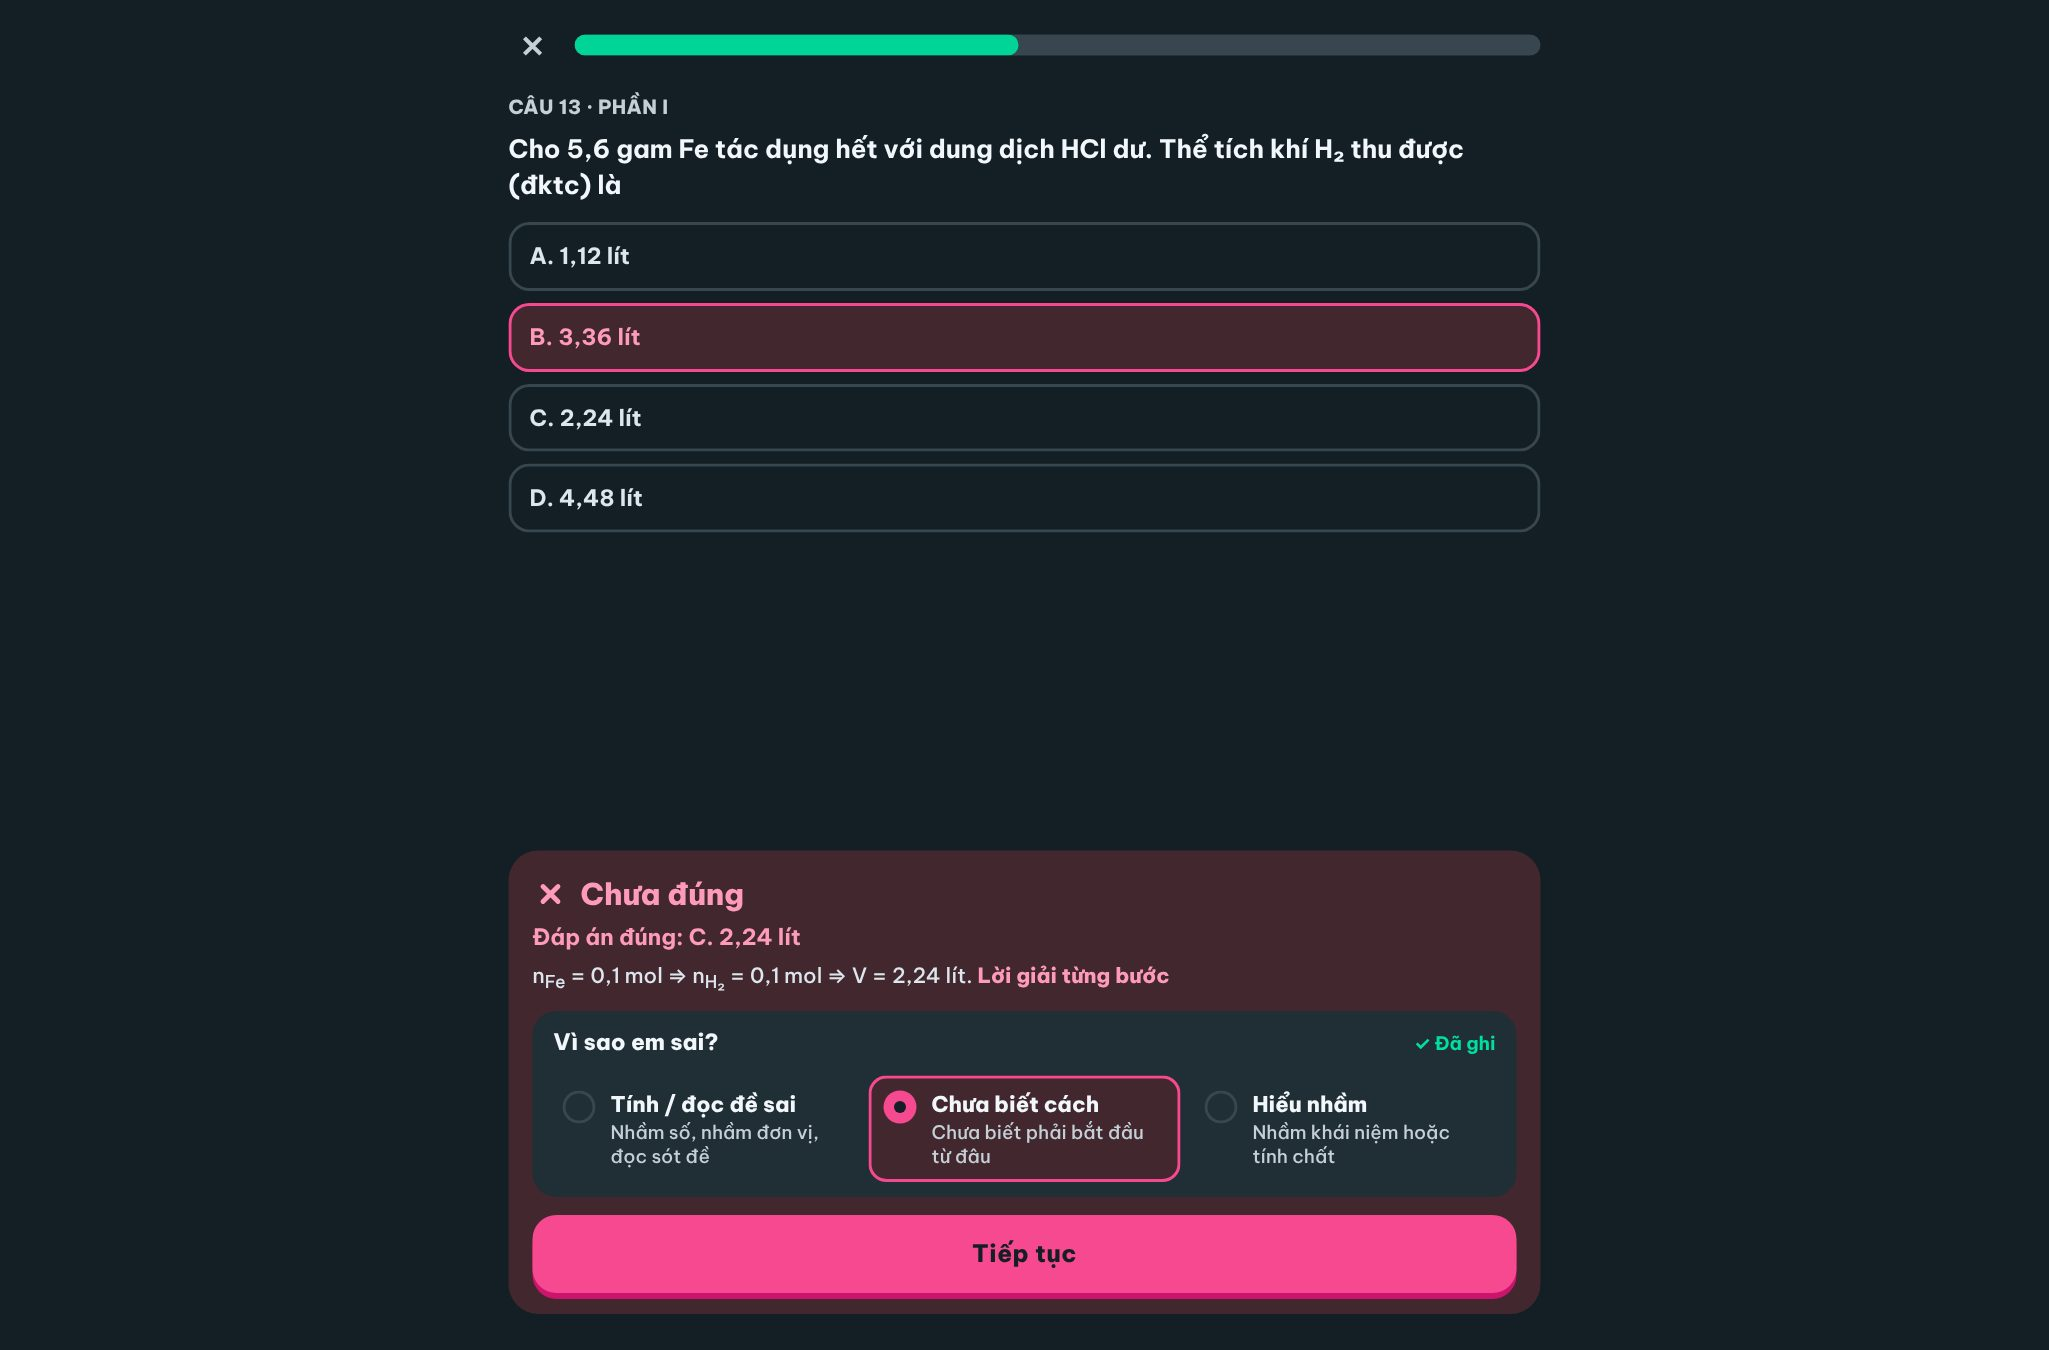
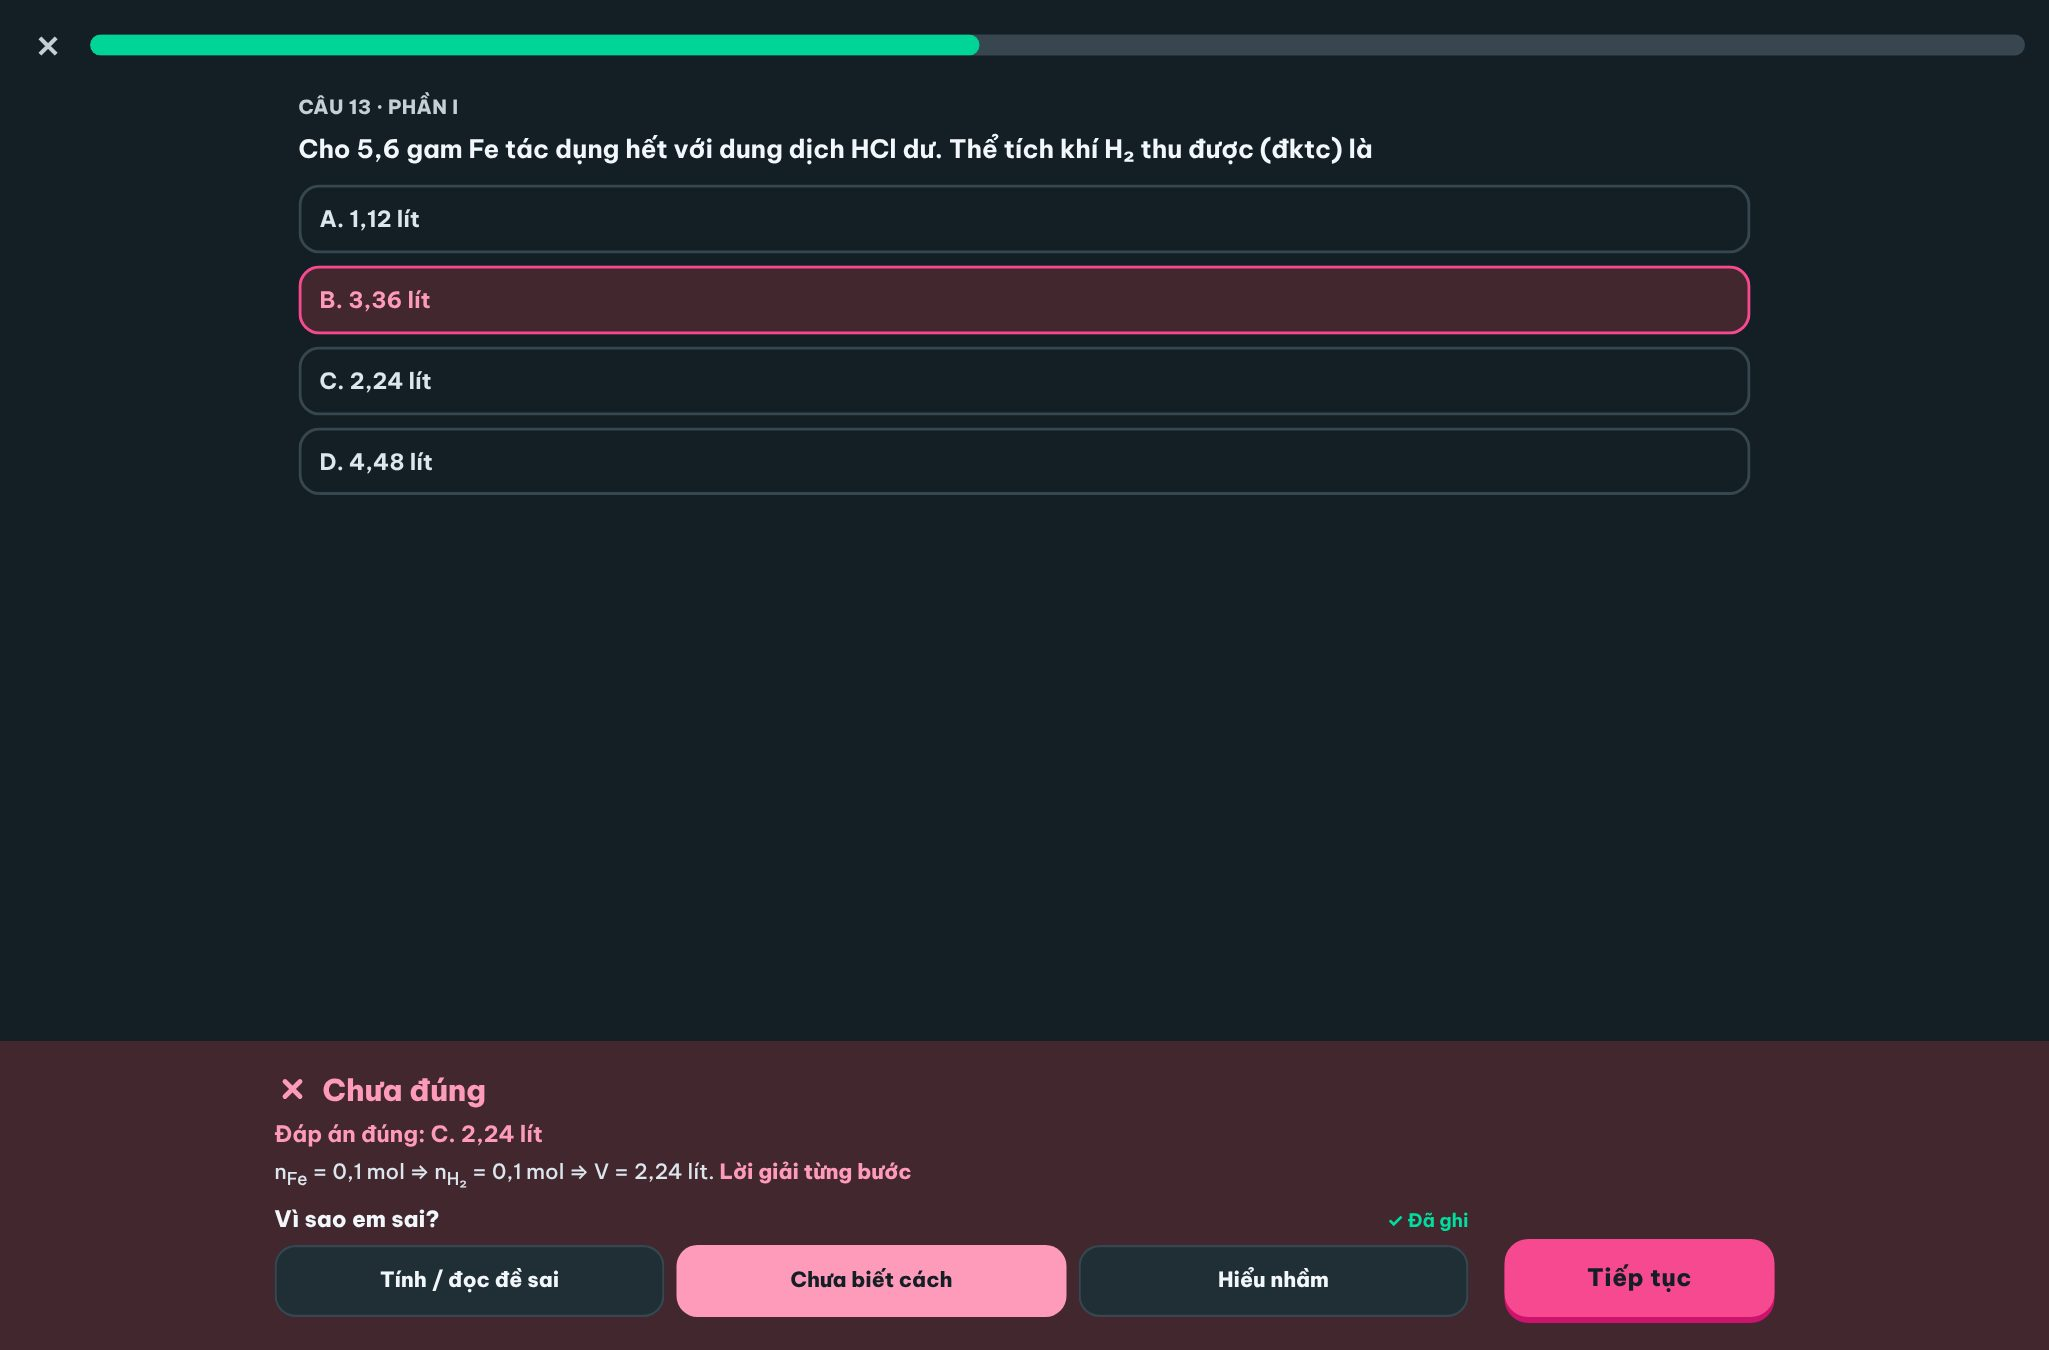
Bản vẽ «Vì sao em sai?»: khổ ngang / Fold / máy tính giữ thanh đáy Duolingo (thầy 12/11), chỉ điện thoại dọc dùng ba hàng gọn
Claude-Session: https://claude.ai/code/session_01GhxeutQ1cVvbt7oeGUSU7V

diff --git a/docs/ban-ve-vi-sao-sai-1211/vi-sao-sai.html b/docs/ban-ve-vi-sao-sai-1211/vi-sao-sai.html
@@ -73,7 +73,20 @@ html{color-scheme:light}:root[data-toi]{color-scheme:dark}
 .cu .o3 button{min-height:48px;padding:6px;border:0;border-radius:14px;background:var(--tr-mat);box-shadow:inset 0 0 0 1.5px var(--tr-vien);font:inherit;font-size:13.5px;font-weight:800;line-height:1.2;color:var(--tr-chu-2)}
 .cu .o3 button[aria-pressed=true]{background:var(--tr-sai-chu);box-shadow:none;color:var(--tr-trang)}
 .ghi{position:absolute;top:8px;right:8px;max-width:46%;padding:6px 10px;border:2px dashed var(--tr-vien);border-radius:12px;background:var(--tr-nen);font-size:12px;font-weight:700;color:var(--tr-chu-3)}
-@media (min-width:700px){.khung{padding-bottom:24px}.dai{border-radius:20px;margin:0 16px}.vs{display:grid;grid-template-columns:1fr 1fr 1fr;gap:6px}.vs-dau{grid-column:1/-1}.o+.o{margin-top:0}.o{min-height:64px;align-items:flex-start;padding:10px}}
+/* KHỔ NGANG (điện thoại xoay ngang, Fold mở, máy tính bảng, máy tính) — GIỮ THIẾT KẾ DUOLINGO đang chạy (thầy 12/11): thanh đáy rộng hết màn, kết quả bên trái,
+   «Tiếp tục» bên phải; ba ô lý do một hàng. Chỉ đổi cách chờ: không chọn sẵn, chưa chọn thì nút tắt. */
+@media (min-width:700px),(orientation:landscape) and (max-height:500px){
+ .khung{max-width:none}.de{width:100%;max-width:1000px;margin:0 auto}
+ .dai{display:grid;grid-template-columns:minmax(0,1fr) auto;column-gap:24px;align-items:end;border-radius:0;padding:18px max(24px,calc((100% - 1000px)/2)) 22px}
+ .dai > :not(.nut){grid-column:1}.dai .nut{grid-column:2;grid-row:1/span 9;align-self:end;width:auto;min-width:180px;padding:0 28px;margin:0}
+ .vs{background:transparent;padding:0;margin-top:8px}.vs-dau{padding:0 0 6px}
+ .vs .hang{display:grid;grid-template-columns:repeat(3,minmax(0,1fr));gap:8px}
+ .o{justify-content:center;min-height:48px;padding:6px 10px;border-radius:14px;background:var(--tr-mat);box-shadow:inset 0 0 0 1.5px var(--tr-vien);text-align:center}
+ .o + .o{margin-top:0}.o .tron,.o .chu small{display:none}.o .chu{flex:none}.o .chu b{font-size:14px}
+ .o[aria-pressed=true]{background:var(--tr-sai-chu);box-shadow:none}.o[aria-pressed=true] .chu b{color:var(--tr-trang)}
+ .o .ai{margin-left:4px}
+}
+@media (orientation:landscape) and (max-height:500px){.thanh{padding-top:8px}.de p.cau{font-size:15px;margin:4px 0 8px}.pa{grid-template-columns:1fr 1fr}.pa div{padding:8px 12px}.dai{padding-top:10px;padding-bottom:10px}.dai .giai{display:none}}
 </style>
 </head>
 <body>
@@ -96,7 +109,7 @@ if (man === 'truoc') {
 } else {
   const daChon = !!chon
   dai = '<section class="dai">' + kq + '<div class="vs" role="radiogroup" aria-label="Vì sao em sai?"><div class="vs-dau"><h3>Vì sao em sai?</h3><span' + (daChon ? ' data-xong' : '') + '>' + (daChon ? '✓ Đã ghi' : 'Chọn 1 ý') + '</span></div>' +
-    LY.map(([m, t, g]) => '<button class="o" role="radio" aria-pressed="' + (m === chon) + '"><span class="tron"></span><span class="chu"><b>' + t + '</b><small>' + g + '</small></span>' + (m === ai ? '<span class="ai">A.I đoán</span>' : '') + '</button>').join('') +
+    '<div class="hang">' + LY.map(([m, t, g]) => '<button class="o" role="radio" aria-pressed="' + (m === chon) + '"><span class="tron"></span><span class="chu"><b>' + t + '</b><small>' + g + '</small></span>' + (m === ai ? '<span class="ai">A.I đoán</span>' : '') + '</button>').join('') + '</div>' +
     '</div><button class="nut"' + (daChon ? '' : ' data-tat') + '>' + (daChon ? 'Tiếp tục' : 'Chọn một ý để tiếp tục') + '</button></section>'
 }
 document.getElementById('k').innerHTML = dau + de + dai

diff --git a/docs/ban-ve-vi-sao-sai-1211/DAC-TA.md b/docs/ban-ve-vi-sao-sai-1211/DAC-TA.md
@@ -4,7 +4,7 @@ Thầy 12/11: «Cái chọn ý nó bị thoát nhanh quá chưa kịp nhìn, cho
 đẹp và gọn hơn ở màn dọc, vẽ tôi xem trước khi build».
 
 Ảnh (Chromium thật, `node docs/ban-ve-vi-sao-sai-1211/chup.mjs`): `dt-sang-0-hien-tai` (bản đang chạy, để so) · `dt-sang-1-chua-chon` · `dt-sang-2-ai-doan` ·
-`dt-sang-3-da-chon` · `dt-toi-1/3` · `dt-nho-sang-1` (360×640) · `mb-sang-3` (máy tính bảng) · `mt-sang-1`, `mt-toi-3` (máy tính).
+`dt-sang-3-da-chon` · `dt-toi-1/3` · `dt-nho-sang-1` (360×640) · khổ ngang kiểu Duolingo: `ngang-sang-1/3` (điện thoại xoay ngang), `fold-sang-1`, `mb-sang-3`, `mt-sang-1`, `mt-toi-3`.
 
 ## 1. Mục tiêu sư phạm + ai dùng
 Học sinh, câu luyện tập ở Lộ trình vừa làm SAI. Em phải DỪNG LẠI, nhìn đáp án đúng, tự gọi tên lỗi của mình (Tính / đọc đề sai · Chưa biết cách · Hiểu nhầm)
@@ -18,7 +18,9 @@ Vì sao đang «thoát nhanh» (đọc mã `src/components/hoc-tap/KetSaiDuo.tsx
 - Điện thoại dọc (chính): dải «Chưa đúng» → đáp án đúng + một dòng lời giải ngắn + «Lời giải từng bước» → thẻ «Vì sao em sai?» (góc phải: «Chọn 1 ý» / «✓ Đã ghi»)
   → BA HÀNG chọn một (vòng tròn + tên lý do + một dòng giải thích), mỗi hàng cao ≥ 48 px → nút chính rộng hết dải.
 - Thay ba ô ngang hiện tại (chữ «Tính / đọc đề sai» bị bẻ hai dòng, khó đọc) bằng ba hàng dọc gọn, chữ một dòng.
-- Máy tính bảng / máy tính: ba hàng thành ba cột cạnh nhau. Điện thoại xoay ngang: giữ dạng gọn một hàng ba ô như hiện tại (đã có, không đổi).
+- KHỔ NGANG — điện thoại xoay ngang, Fold mở, máy tính bảng, máy tính (thầy 12/11: «phải giữ thiết kế của Duolingo»): GIỮ thanh đáy Duolingo đang chạy — rộng hết
+  màn, kết quả bên trái, nút chính bên phải, ba ô lý do MỘT HÀNG (không dòng giải thích phụ). Chỉ đổi cách chờ như mục 3/5. Ảnh: `ngang-sang-1/3`, `fold-sang-1`
+  (884×1104), `mb-sang-3`, `mt-sang-1`, `mt-toi-3`.
 
 ## 3. Trạng thái
 - Vừa hiện, chưa chọn: nút xám «Chọn một ý để tiếp tục» (tắt). KHÔNG chọn sẵn.
